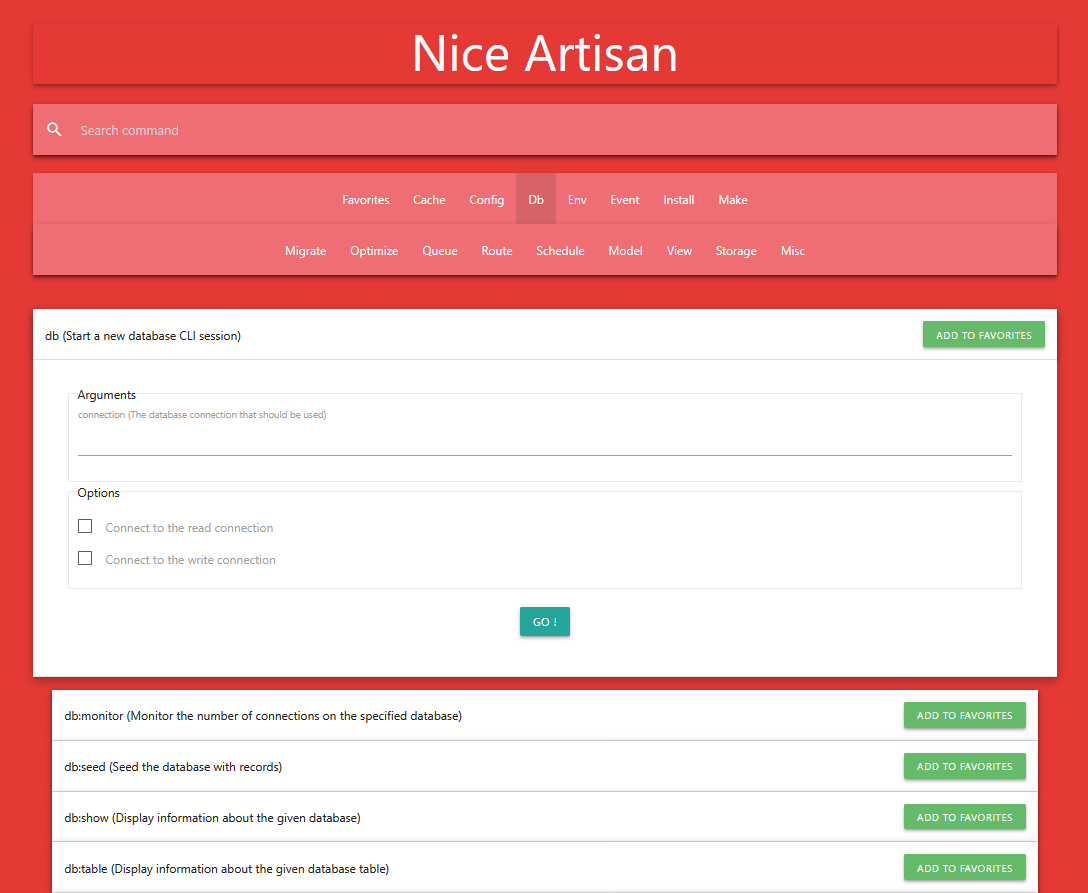
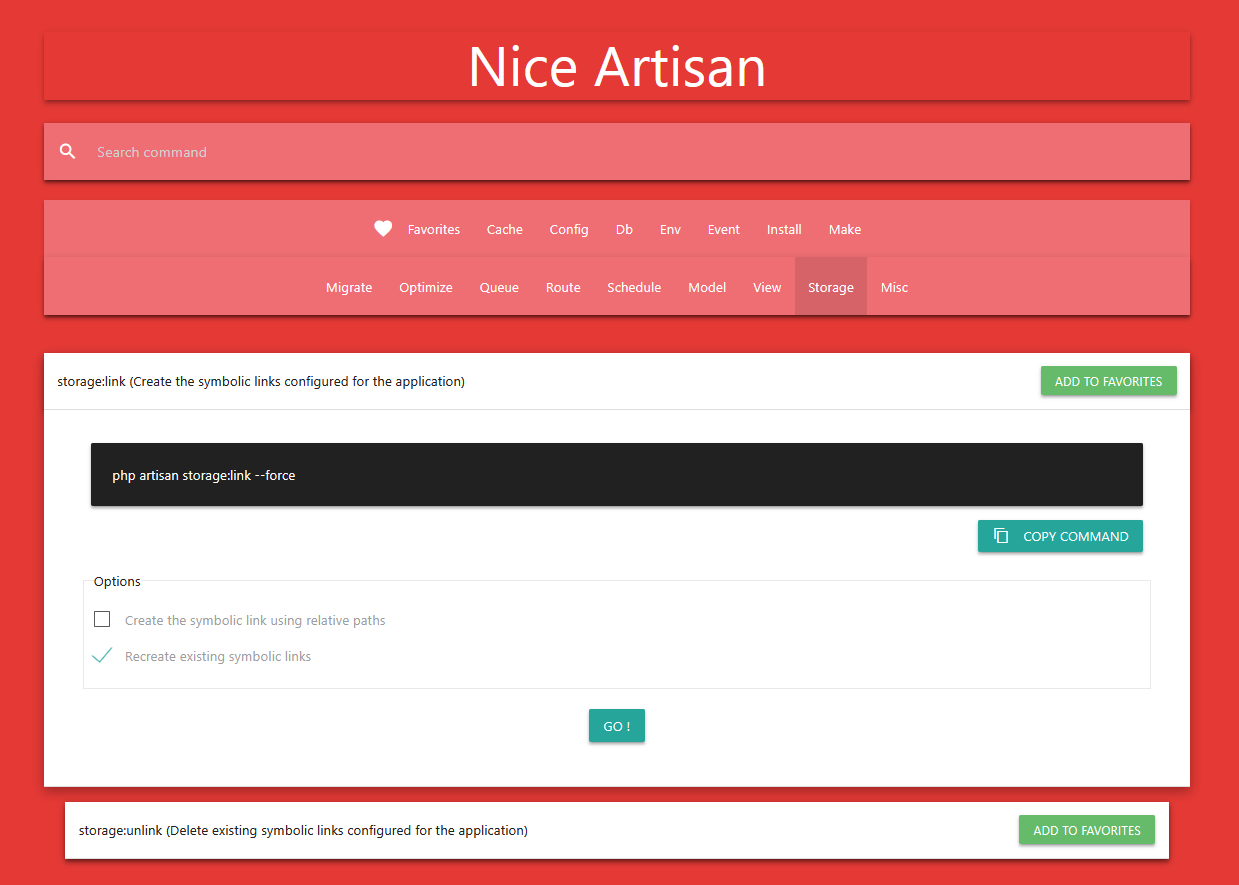
Added a real-time command and cleaned code

diff --git a/views/template.blade.php b/views/template.blade.php
@@ -9,7 +9,7 @@
         <link href="https://fonts.googleapis.com/icon?family=Material+Icons" rel="stylesheet">
         <link rel="stylesheet" href="https://cdnjs.cloudflare.com/ajax/libs/materialize/1.0.0/css/materialize.min.css">
         <link href="https://fonts.googleapis.com/icon?family=Material+Icons" rel="stylesheet">
-    
+
         <style>
             .collapsible-flex {
                 display: flex;
@@ -21,7 +21,7 @@
                 justify-content: center;
             }
         </style>
-    
+
     </head>
 
     <body class="red darken-1">
@@ -65,7 +65,7 @@
                                     }
                                 }
                             @endphp
-                            <li class="{{ $isActive ? 'active' : '' }}">                                
+                            <li class="{{ $isActive ? 'active' : '' }}">
                                 <a href="{!! route('niceartisan', ['option' => $option]) !!}">
                                     @if($option == 'favorites') <i class="material-icons left">favorite</i> @else  @endif
                                     {{ ucfirst($option) }}
@@ -74,7 +74,7 @@
                         @endforeach
                     </ul>
                 </div>
-                
+
                 <div class="nav-wrapper hide-on-med-and-down z-depth-2">
                     <ul id="nav-mobile" class="center-nav-links">
                         {{-- Second line --}}
@@ -130,7 +130,7 @@
                         </div>
                     </div>
                 </div>
-            </div>     
+            </div>
 
             <div class="row"><br>
 
@@ -144,7 +144,7 @@
                             @endforeach
                         </div>
                       </div>
-                    </div>  
+                    </div>
                 @endif
 
                 @if (session('output'))
@@ -154,10 +154,10 @@
                             <span class="card-title">Success !</span>
                             <pre style="overflow-x: auto; white-space: pre;">
                                 {!! session('output') !!}
-                            </pre>                                                          
+                            </pre>
                         </div>
                       </div>
-                    </div>    
+                    </div>
                 @endif
 
                 @if (session('error'))
@@ -170,15 +170,15 @@
                             </pre>
                         </div>
                       </div>
-                    </div>  
+                    </div>
                 @endif
-                
+
             </div>
 
             @yield('content')
 
         </div>
-        
+
         <script src="https://cdnjs.cloudflare.com/ajax/libs/materialize/1.0.0/js/materialize.min.js"></script>
 
         <script>
@@ -190,7 +190,7 @@
 
                 // Get the forms
                 const searchForms = document.querySelectorAll('form');
-                
+
                 // Get all navigation links
                 const navLinks = document.querySelectorAll('#nav-mobile a, #mobile a');
 
@@ -206,12 +206,55 @@
                     form.addEventListener('submit', function(event) {
                         showPreloader();
                     });
-                });           
+                    const inputFields = form.querySelectorAll('input[type="text"], input[type="checkbox"]');
+                    inputFields.forEach(input => {
+                        input.addEventListener('input', function() {
+                            updateCommandPreview(form);
+                        });
+                        updateCommandPreview(form);
+                    });
+                });
 
                 // Attach event listeners to all navigation links
                 navLinks.forEach(link => {
                     link.addEventListener('click', function(event) {
                         showPreloader();
+                    });
+                });
+
+                // Copy command in clipboard
+                const copyButtons = document.querySelectorAll('.copy-command-btn');
+                copyButtons.forEach(button => {
+                    button.addEventListener('click', function() {
+                        const commandToCopy = this.getAttribute('data-clipboard-text');
+
+                        if (navigator.clipboard) {
+                            // Utilisation de l'API Clipboard moderne
+                            navigator.clipboard.writeText(commandToCopy)
+                                .then(() => {
+                                    // Feedback visuel (Materialize Toast)
+                                    M.toast({html: 'Command copied!', classes: 'green darken-1'});
+                                })
+                                .catch(err => {
+                                    console.error('Copy error:', err);
+                                    M.toast({html: 'Impossible to copy command.', classes: 'red darken-1'});
+                                });
+                        } else {
+                            // Fallback pour les anciens navigateurs
+                            const textArea = document.createElement("textarea");
+                            textArea.value = commandToCopy;
+                            document.body.appendChild(textArea);
+                            textArea.focus();
+                            textArea.select();
+                            try {
+                                document.execCommand('copy');
+                                M.toast({html: 'Command copied! (Fallback)', classes: 'green darken-1'});
+                            } catch (err) {
+                                console.error('Copy error (Fallback):', err);
+                                M.toast({html: 'Impossible to copy command.', classes: 'red darken-1'});
+                            }
+                            document.body.removeChild(textArea);
+                        }
                     });
                 });
 
@@ -255,7 +298,53 @@
                             alert('An error occurred.');
                         });
                     });
-                });                
+                });
+
+                /**
+                 * Generate command artisan with form inputs
+                 * @param {HTMLElement} formElement
+                 * @returns {string}
+                 */
+                function generateCommand(formElement) {
+                    let command = formElement.getAttribute('data-base-command');
+                    const formData = new FormData(formElement);
+
+                    // Itérer sur les entrées du formulaire
+                    for (const [key, value] of formData.entries()) {
+                        if (key.startsWith('argument_') && value) {
+                            // C'est un argument (sans guillemets car Materialize génère le champ)
+                            command += ' ' + value.trim();
+                        } else if (key.startsWith('option_')) {
+                            const optionName = key.substring('option_'.length);
+
+                            if (formElement.querySelector(`[name="${key}"][type="checkbox"]`)) {
+                                // C'est une option sans valeur (checkbox)
+                                command += ' --' + optionName;
+                            } else if (value) {
+                                // C'est une option avec valeur
+                                // On ajoute des guillemets autour de la valeur
+                                command += ' --' + optionName + '="' + value.trim().replace(/"/g, '\\"') + '"';
+                            }
+                        }
+                    }
+                    return command;
+                }
+
+                /**
+                 * Update command preview
+                 * @param {HTMLElement} formElement
+                 */
+                function updateCommandPreview(formElement) {
+
+                    const previewElement = formElement.querySelector('.command-output');
+                    const copyButton = formElement.querySelector('.copy-command-btn');
+                    if (previewElement && copyButton) {
+                        const command = generateCommand(formElement);
+                        previewElement.textContent = command;
+                        copyButton.setAttribute('data-clipboard-text', command);
+                    }
+                }
+
             });
         </script>
 

diff --git a/views/index.blade.php b/views/index.blade.php
@@ -24,9 +24,19 @@
 
                 <div class="collapsible-body white">
                     <div class="row">
-                        <form  class="col s12" method="POST" action="{!! route('niceartisan.exec', ['class' => $item->getName()]) !!}">
+                        <form class="col s12" method="POST" action="{!! route('niceartisan.exec', ['class' => $item->getName()]) !!}" data-base-command="php artisan {{ $item->getName() }}">
                             @csrf
                             <input type="hidden" name="command" value="{{ $item->getName() }}">
+
+                            <div class="col s12 command-preview-container" style="margin-bottom: 20px;">
+                                <div class="card-panel grey darken-4 white-text command-output" style="word-break: break-all;">
+                                    php artisan {{ $item->getName() }}
+                                </div>
+                                <button type="button" class="btn waves-effect waves-light copy-command-btn" data-clipboard-text="" style="float: right;">
+                                    <i class="material-icons left">content_copy</i> Copy command
+                                </button>
+                            </div>
+
                             @if(count($item->getDefinition()->getArguments()) > 0)
                                 <fieldset>
                                     <legend>Arguments</legend>
@@ -62,7 +72,7 @@
                             <div class="col s12 center-align">
                                 <button class="btn waves-effect waves-light" type="submit" name="action">Go !</button>
                             </div>
-                        </form> 
+                        </form>
                     </div>
                 </div>
             </li>

diff --git a/src/Http/Controllers/NiceArtisanController.php b/src/Http/Controllers/NiceArtisanController.php
@@ -22,7 +22,10 @@ class NiceArtisanController
     /**
      * Show the commands.
      *
-     * @return Response
+     * @param Request $request
+     * @param JsonListManager $jsonListManager
+     * @param null $option
+     * @return View
      */
     public function show(Request $request, JsonListManager $jsonListManager, $option = null): View
     {
@@ -36,7 +39,7 @@ class NiceArtisanController
             $isFavorite = $favorites->contains($command->getName());
             $command->favorite = $isFavorite;
             return $command;
-        }); 
+        });
 
         $search = $request->input('search');
         if ($search) {
@@ -82,10 +85,11 @@ class NiceArtisanController
     /**
      * Call the Artisan  command
      *
-     * @param  Request  $request
-     * @param  string $command
+     * @param Request $request
+     * @param string $command
+     * @return RedirectResponse
      */
-    public function command(Request $request, $command): RedirectResponse
+    public function command(Request $request, string $command): RedirectResponse
     {
         if (array_key_exists('argument_name', $request->all())) {
             $request->validate(['argument_name' => 'required']);

diff --git a/src/JsonListManager.php b/src/JsonListManager.php
@@ -15,7 +15,7 @@ class JsonListManager
     /**
      * @param string $fileName
      */
-    public function __construct($fileName = 'liste.json')
+    public function __construct(string $fileName = 'liste.json')
     {
         // Set the file path in a package-specific subdirectory
         $this->filePath = 'niceartisan/' . $fileName;
@@ -79,7 +79,7 @@ class JsonListManager
      * @param mixed $element
      * @return void
      */
-    public function addElement($element): void
+    public function addElement(mixed $element): void
     {
         $liste = $this->getList();
         // Check if the element is not already in the list
@@ -95,7 +95,7 @@ class JsonListManager
      * @param mixed $element
      * @return void
      */
-    public function removeElement($element): void
+    public function removeElement(mixed $element): void
     {
         $liste = $this->getList();
         $key = array_search($element, $liste);

diff --git a/src/Http/Middleware/EnsureAjax.php b/src/Http/Middleware/EnsureAjax.php
@@ -13,7 +13,7 @@ class EnsureAjax
      *
      * @param  \Illuminate\Http\Request  $request
      * @param  \Closure  $next
-     * @return \Symfony\Component\HttpFoundation\Response
+     * @return Response
      */
     public function handle(Request $request, Closure $next, ?string $customMessage = null): Response
     {

diff --git a/src/NiceArtisanServiceProvider.php b/src/NiceArtisanServiceProvider.php
@@ -3,7 +3,6 @@
 namespace Bestmomo\NiceArtisan;
 
 use Illuminate\Support\ServiceProvider;
-use Illuminate\Support\Facades\Route;
 use Bestmomo\NiceArtisan\Http\Middleware\EnsureAjax;
 
 class NiceArtisanServiceProvider extends ServiceProvider

diff --git a/README.md b/README.md
@@ -2,16 +2,28 @@
 
 This package adds a web interface for Laravel.
 
+### Features
+
+Nice Artisan provides a smooth and secure way to manage your application's commands:
+
+* **Command Catalog**: browse and execute all your Laravel Artisan commands and custom commands directly from the interface.
+* **Dynamic Command Preview**: as you fill out arguments and options in the form, the full Artisan command is generated in real-time, ready to be copied to your clipboard. 
+* **Favorites System**: mark frequently used commands as favorites for quick access.
+* **Search Functionality**: Easily find any command using the built-in search feature.* 
+* **Intuitive Forms**: automatically generates form fields for all required arguments and optional options (including checkboxes for flags). 
+* **Security Focused**: mandatory middleware configuration is provided to protect the interface, especially in production environments.
+
 ### New in V2 ###
 
-- Added favorites
-- Added commands search
-- Cleaned options
+* Added a **real-time command** preview feature.
+* Added **favorites** functionality.
+* Added **commands search**.
+* Cleaned and simplified options forms.
 
 
 ### Quick Installation ###
 
-Add Nice Artisan to your composer.json file :
+Add Nice Artisan to your **composer.json** file :
 ```
     composer require bestmomo/nice-artisan
 ```
@@ -21,16 +33,16 @@ It will now be accessible at the following URL:
     .../niceartisan
 ```
 
-### Middleware ###
+### Middleware (security) ###
 
-If you want to use this package on a production application you must protect the urls with a middleware for your security !
+If you want to use this package on a production application, **you must protect the urls with a middleware** for your security !
 
 To add a middleware for the package publish the configuration:
 ```
 php artisan vendor:publish --tag=niceartisan:config
 ```
 
-Add a route middleware to your application, for example :
+You can now define your protection logic. Add a route middleware to your application, for example:
 
 ```
 <?php
@@ -41,7 +53,7 @@ use Closure;
 use Illuminate\Http\Request;
 use Symfony\Component\HttpFoundation\Response;  
 
-class NiceArtisan
+class NiceArtisanProtection
 {
   /**
   * Handle an incoming request.
@@ -50,10 +62,18 @@ class NiceArtisan
   */
   public function handle(Request $request, Closure $next): Response
   {
-    if (** your logical here **)
+    // EXAMPLE: Only allow access in 'local' environment
+    if (app()->isProduction()) 
     {
-      abort(403);
+      abort(403, 'Nice Artisan is not allowed in production.');
     }
+    
+    // OR: Check if the user is authenticated and is an admin
+    // if (! auth()->check() || ! auth()->user()->isAdmin())
+    // {
+    //   abort(403);
+    // }
+
     return $next($request);
   }
 }
